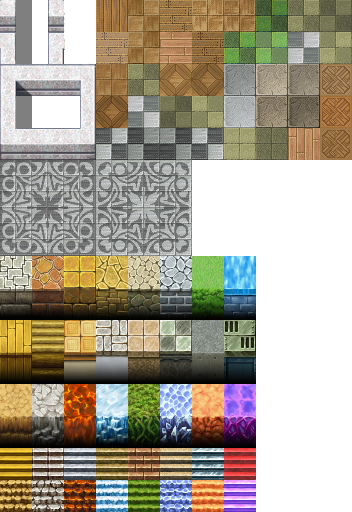
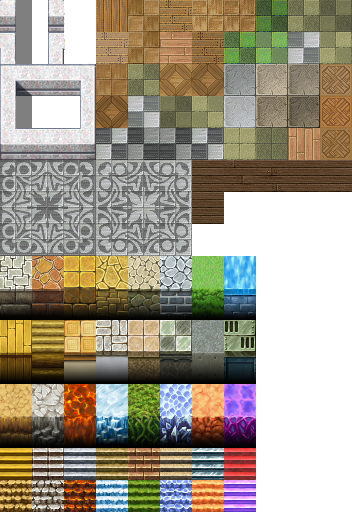
Some map issues fixed, like some image sizes. Added a lamp to 'add simulated resource' menu. Created a new map.

Changed region(s): [[0.5312, 0.3125, 1.0, 0.4375]]

diff --git a/trunk/ labtempo-ubicomp-projects/UbicompMiddleware/src/br/uff/tempo/apps/map/MapActivity.java b/trunk/ labtempo-ubicomp-projects/UbicompMiddleware/src/br/uff/tempo/apps/map/MapActivity.java
@@ -186,7 +186,7 @@ SimpleBaseGameActivity implements IOnSceneTouchListener, IScrollDetectorListener
 		// Be careful with these integers! They are the TerxtureRegion
 		// coordinates (pixels) in the atlas
 
-		this.mBitmapTextureAtlas = new BitmapTextureAtlas(this.getTextureManager(), 127, 253, TextureOptions.BILINEAR);
+		this.mBitmapTextureAtlas = new BitmapTextureAtlas(this.getTextureManager(), 127, 285, TextureOptions.BILINEAR);
 
 		// the stove image is in position (0,0) in the atlas
 		this.mStoveTextureRegion = BitmapTextureAtlasTextureRegionFactory.createFromAsset(this.mBitmapTextureAtlas, this, "stove_small.png", 0, 0);
@@ -197,8 +197,8 @@ SimpleBaseGameActivity implements IOnSceneTouchListener, IScrollDetectorListener
 		// the bed image is at the position (0,75) in the atlas
 		this.mBedTextureRegion = BitmapTextureAtlasTextureRegionFactory.createFromAsset(this.mBitmapTextureAtlas, this, "bed_small.png", 0, 75);
 		
-		// the lamp image is at the position (0, 107) in the atlas
-		this.mLampTextureRegion = BitmapTextureAtlasTextureRegionFactory.createFromAsset(this.mBitmapTextureAtlas, this, "lamp_inactive.png", 0, 107);
+		// the lamp image is at the position (0, 253) in the atlas
+		this.mLampTextureRegion = BitmapTextureAtlasTextureRegionFactory.createFromAsset(this.mBitmapTextureAtlas, this, "lamp_inactive.png", 0, 253);
 
 		this.mBitmapTextureAtlas.load();
 	}
@@ -220,8 +220,8 @@ SimpleBaseGameActivity implements IOnSceneTouchListener, IScrollDetectorListener
 
 		//TODO Read a property file to load the map file. Create an interface to choose the file
 		try {
-			// this.tiledMap = tmxLoader.loadFromAsset("tmx/desert.tmx");
-			this.tiledMap = tmxLoader.loadFromAsset("tmx/house.tmx");
+			this.tiledMap = tmxLoader.loadFromAsset("tmx/casa_meiry.tmx");
+			//this.tiledMap = tmxLoader.loadFromAsset("tmx/house.tmx");
 			// this.tiledMap = tmxLoader.loadFromAsset("tmx/testTiled.tmx");
 		} catch (TMXLoadException e) {
 			e.printStackTrace();
@@ -239,8 +239,8 @@ SimpleBaseGameActivity implements IOnSceneTouchListener, IScrollDetectorListener
 		this.mCamera.setBounds(0, 0, tmxLayer.getWidth(), tmxLayer.getHeight());
 		this.mCamera.setBoundsEnabled(true);
 
-		// Background is a kind of blue...
-		this.mScene.setBackground(new Background(0.09804f, 0.6274f, 0.8784f));
+		// Background is black...
+		this.mScene.setBackground(new Background(0.0f, 0.0f, 0.0f));
 
 		// Instantiating detectors (to perform Pan and Zoom)
 		this.mScrollDetector = new SurfaceScrollDetector(this);
@@ -382,8 +382,6 @@ SimpleBaseGameActivity implements IOnSceneTouchListener, IScrollDetectorListener
 
 	// @Override protected void onActivityResult(int requestCode, int
 	// resultCode, Intent data) {
-	//
-	// // TODO Auto-generated method stub
 	// super.onActivityResult(requestCode, resultCode, data);
 	//
 	// //mAppManager.addResourceData((ResourceData)
@@ -476,7 +474,7 @@ SimpleBaseGameActivity implements IOnSceneTouchListener, IScrollDetectorListener
 				stove = new Stove(regData.getResourceName());
 			} else {
 				stove = new StoveStub(regData.getResourceName());
-				// stove.registerStakeholder("all", mAppManager.getURL());
+				stove.registerStakeholder("all", mAppManager.getURL());
 			}
 
 			// simulated -> put an agent; not simulated -> put a stub (proxy to
@@ -485,7 +483,7 @@ SimpleBaseGameActivity implements IOnSceneTouchListener, IScrollDetectorListener
 
 			break;
 			
-		
+		// Smart Lamp selected. Creates a new lamp in the scene
 		case LAMP:
 			
 			c = br.uff.tempo.apps.lamp.LampView.class;
